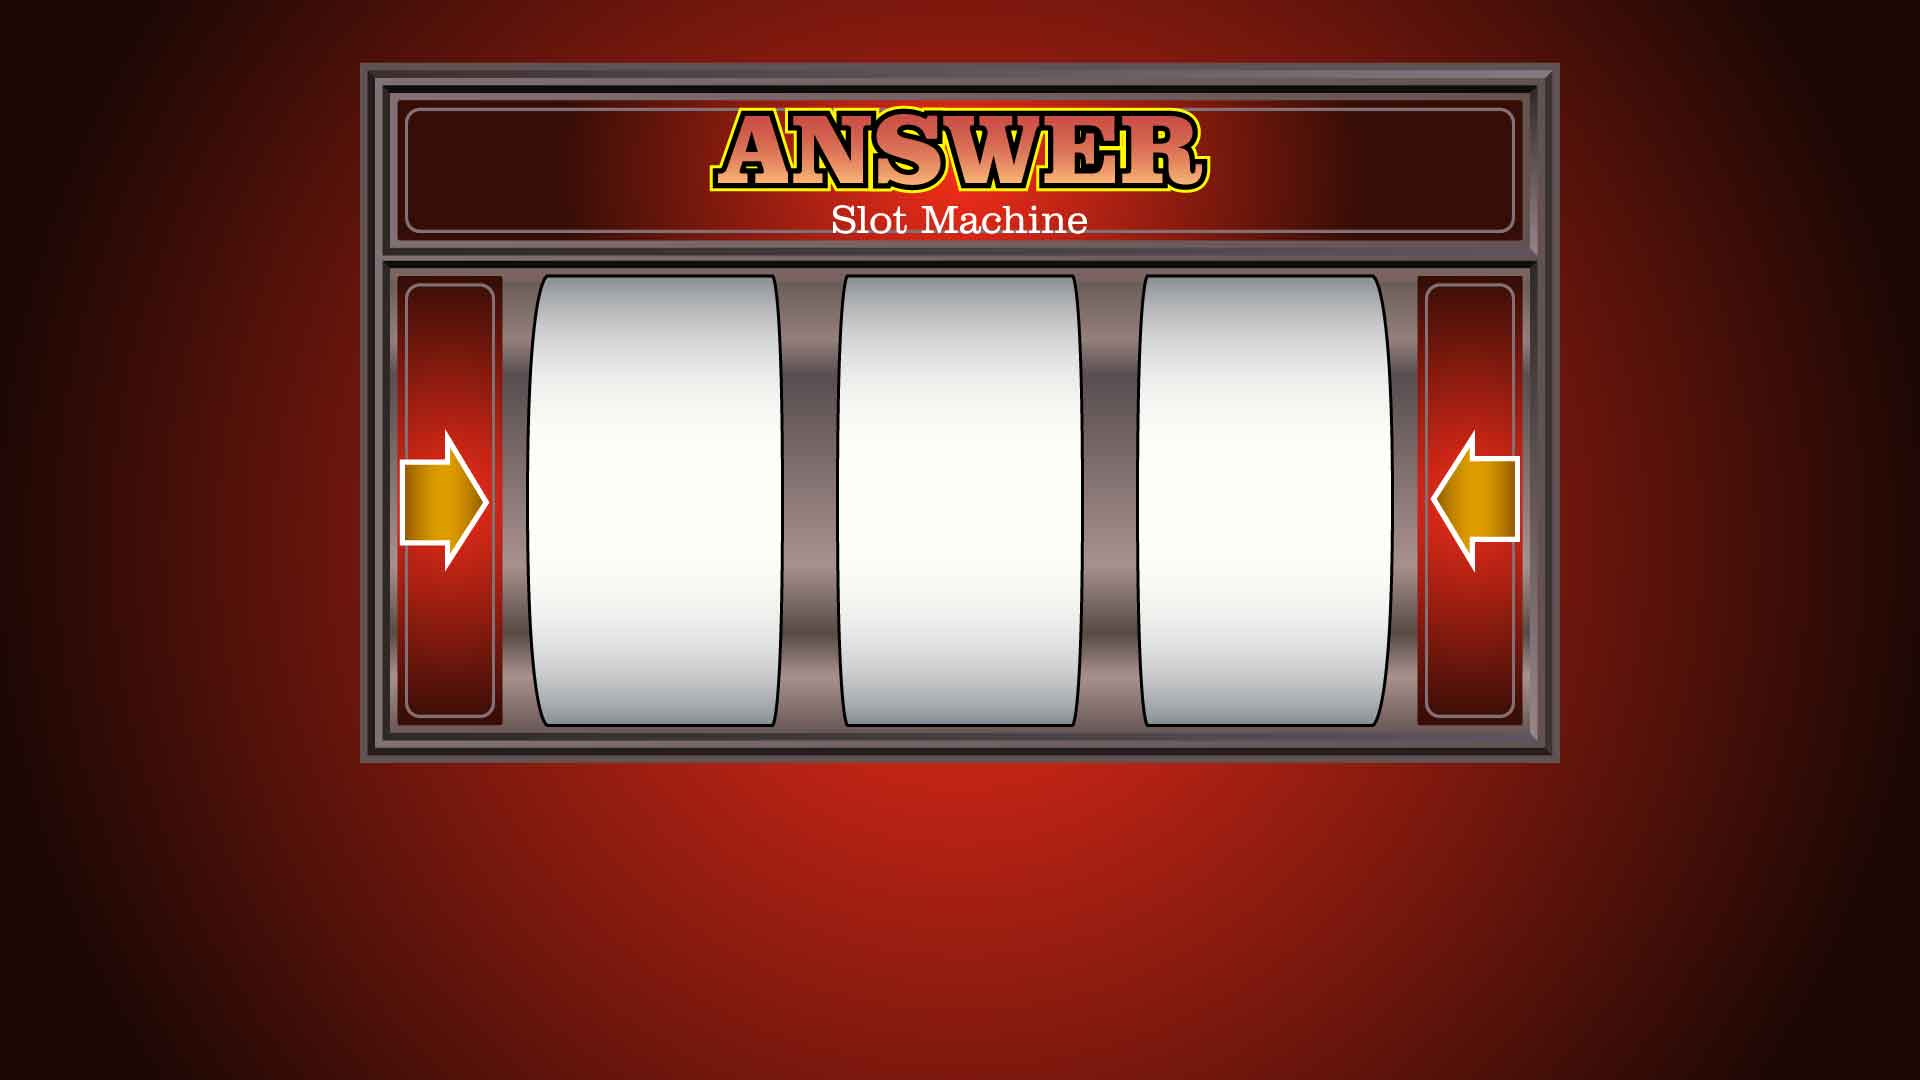
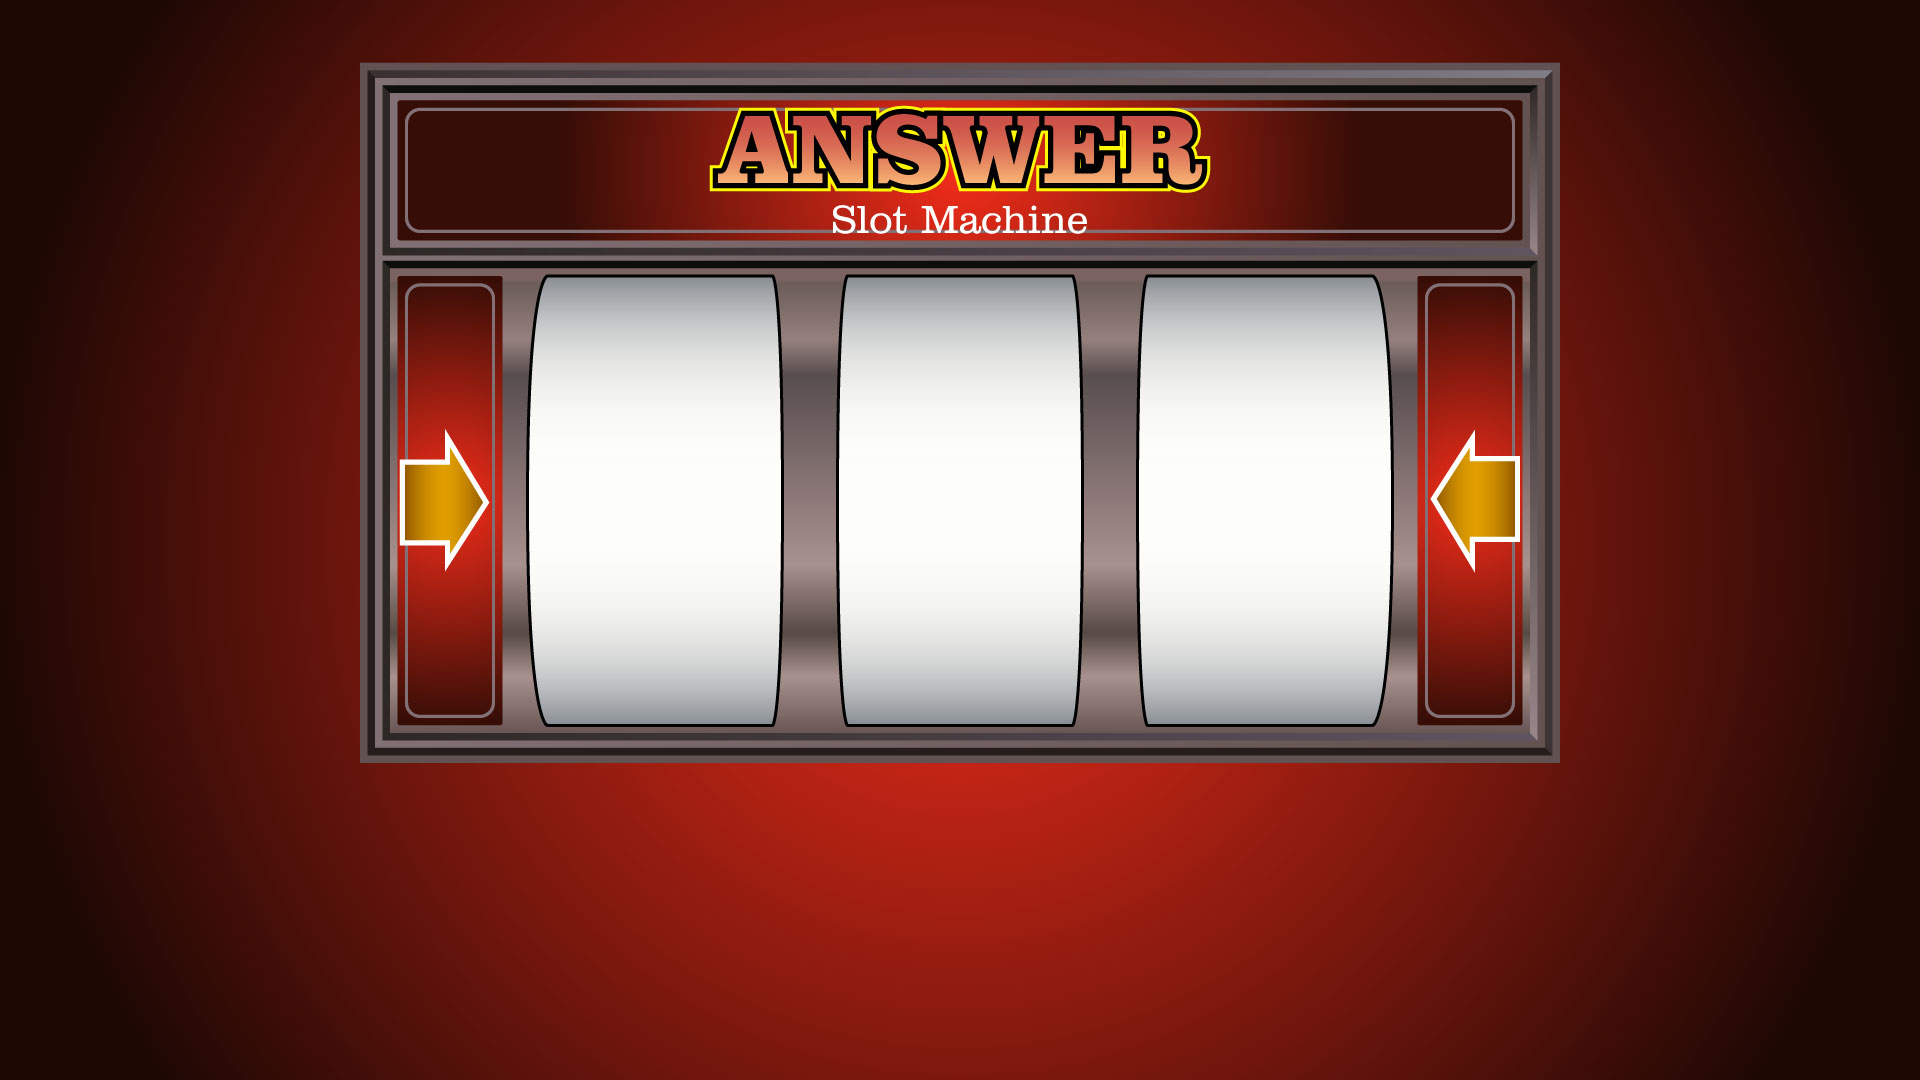
Add files via upload

diff --git a/index.html b/index.html
@@ -16,7 +16,7 @@
 </head>
 <body>
 	<img src='img1.jpg' style='width:100%; position:absolute; z-index:-1'>
-	<div style='width:1200px; height:708.65px; margin: auto; margin-top:68px; padding-top:213px; '>
+	<div style='width:1200px; height:708.65px; margin: auto; margin-top:100px; padding-top:213px; '>
 		<div id="con1">
 			<section id="a1">예상컨대</section>
 			<section id="a2">아쉽지만</section>
